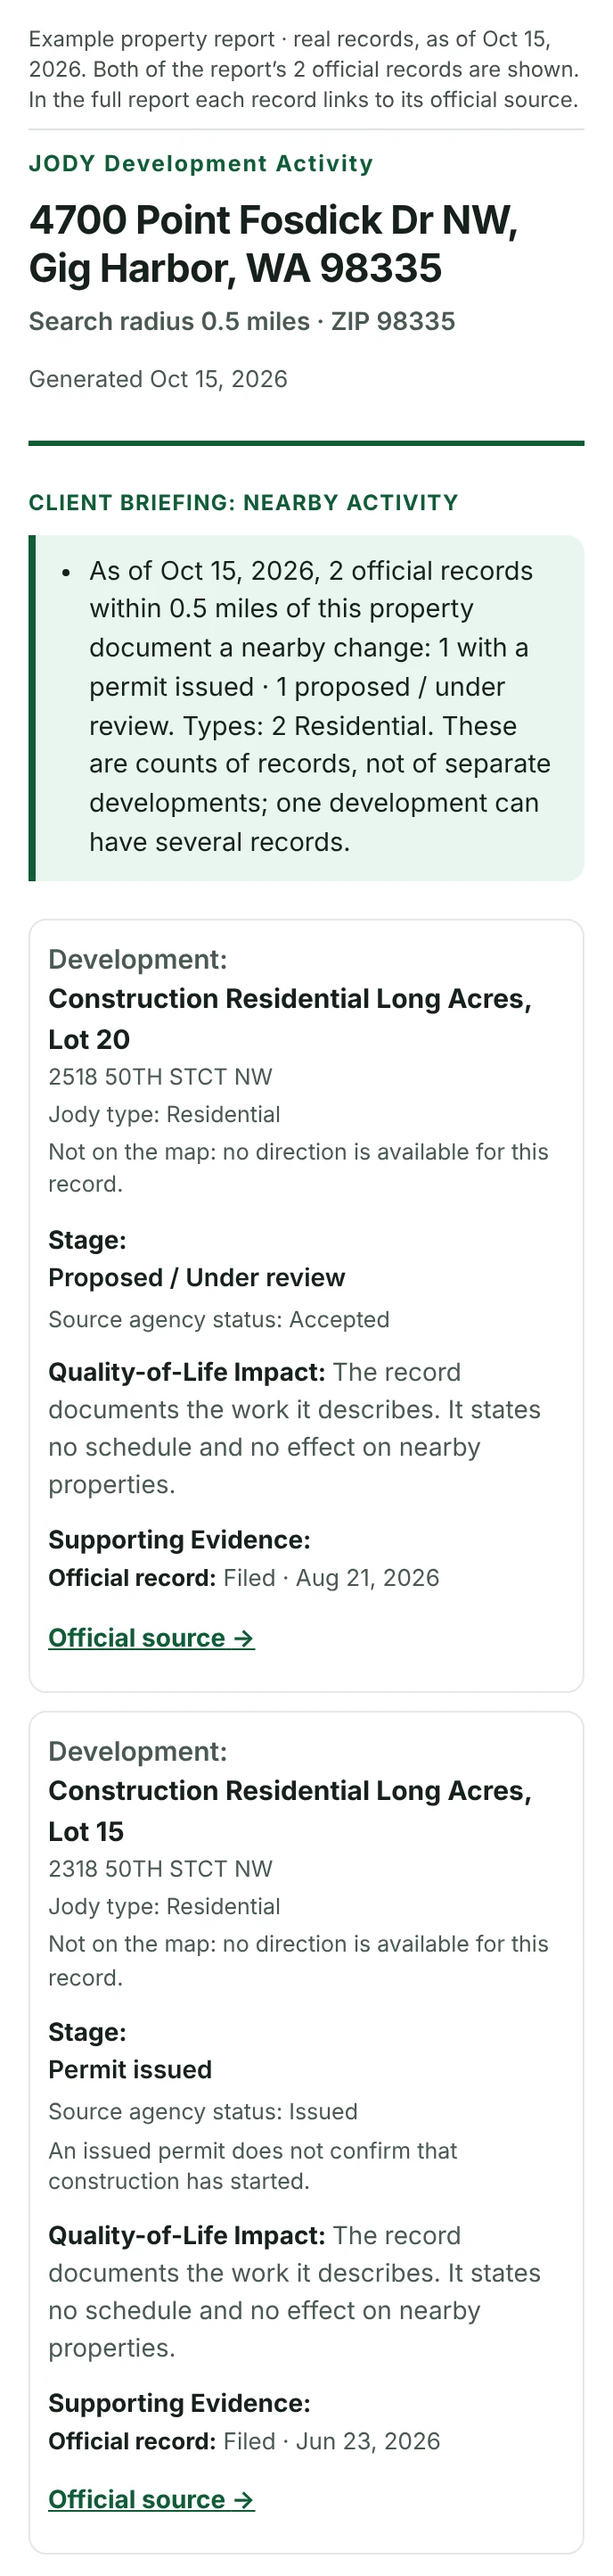
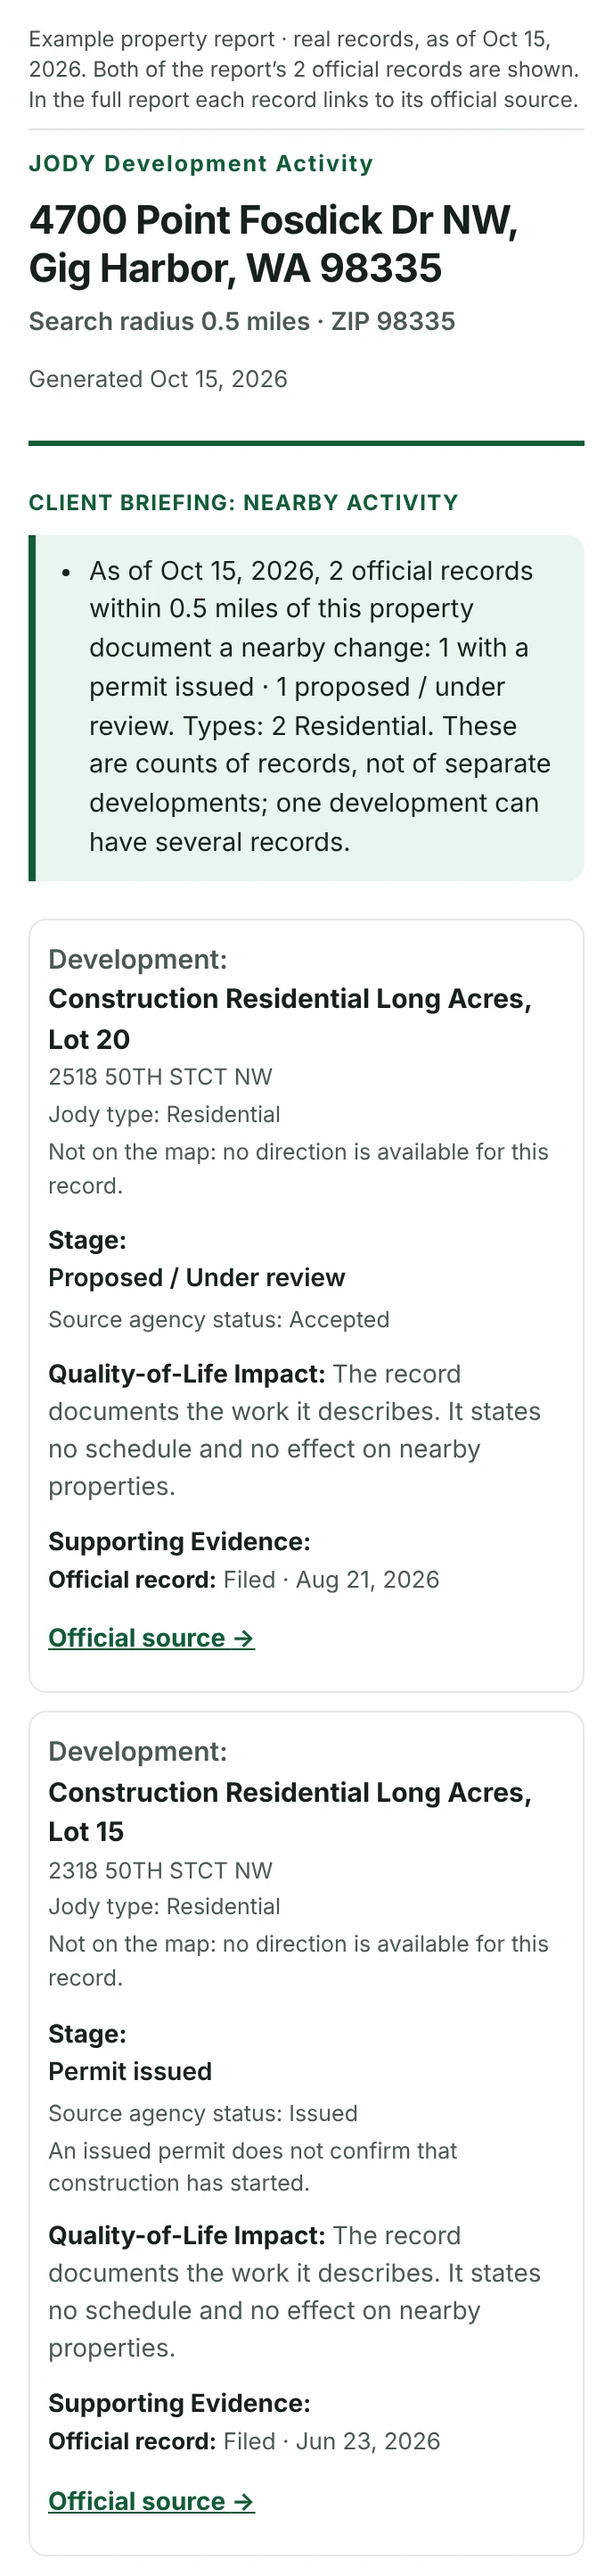
Remove "Describe the records, not the people…" sentence from reports (#3045)
* Remove the 'Describe the records, not the people…' sentence from the report caution

Claude-Session: https://claude.ai/code/session_01C2QfWas9xuci2FhC7MkDSo

* Regenerate the homepage report preview after the caution sentence change

Claude-Session: https://claude.ai/code/session_01C2QfWas9xuci2FhC7MkDSo

---------

diff --git a/lib/da-report-view.js b/lib/da-report-view.js
@@ -38,7 +38,7 @@
   // ── the words the plan and the rulings give us, quoted ─────────────────────────────────────────────────────────────────
   var BRIEFING_TITLE = 'Client Briefing: Nearby Activity';                 // the realtor value review (2026-10-04): the briefing paragraph's heading
   // Said once, under the briefing: these are official records and where they are. They are not a prediction, and not a reason to steer a client toward or away from an area.
-  var BRIEFING_CAUTION = 'This briefing reports what official records say and where they are. It is not a prediction about value, traffic or the character of the neighborhood. Describe the records, not the people who may live or work nearby, and do not use them to steer a client toward or away from an area.';
+  var BRIEFING_CAUTION = 'This briefing reports what official records say and where they are. It is not a prediction about value, traffic or the character of the neighborhood.';
   var EYEBROW = 'JODY Development Activity';                       // founder 2026-10-14 (audit F4): the new product name; replaces ruling R6's HOMESIGNAL DEVELOPMENT ACTIVITY. The engine's product identifier is unchanged until the next edge-function deploy.
   var TITLES = {                                                          // 100526 plan, ruling 3 and the visual layout contract; layout pass 2026-10-09
     records: 'Nearby Development',

diff --git a/shared-report.html b/shared-report.html
@@ -114,7 +114,7 @@ noscript p{margin:16px;font-weight:600}
 <p class="sr-only" id="followStatus" role="status" aria-live="polite"></p>
 <noscript><p>This report needs JavaScript to be shown. Please turn it on, or ask the person who sent you the link for a printed copy.</p></noscript>
 <script src="lib/project-type.js?v=852af398"></script>
-<script src="lib/da-report-view.js?v=39cc47d8"></script>
+<script src="lib/da-report-view.js?v=5d904078"></script>
 <script>
 (function(){
   // The public anon key every page carries. This page makes no account and signs no one in; it only lets the browser reach the

diff --git a/development-activity.html b/development-activity.html
@@ -154,7 +154,7 @@
 <script src="https://cdn.jsdelivr.net/npm/@supabase/supabase-js@2.117.3" integrity="sha384-dl/4LkSyQ4uEucc48NM6VDZLAjLLq9yMzZ5JLXumBq7Ld33XBof73hseOqPhO89+" crossorigin="anonymous"></script>
 <script src="lib/data.js?v=4033ae3a"></script>
 <script src="lib/project-type.js?v=852af398"></script>
-<script src="lib/da-report-view.js?v=39cc47d8"></script>
+<script src="lib/da-report-view.js?v=5d904078"></script>
 <script src="lib/topic-prefs.js?v=fe87d99b"></script>
 <script src="lib/templates.js?v=7373e258"></script>
 <script src="lib/premium-waitlist.js?v=3cb9baaf"></script>

diff --git a/development-activity-reports.html b/development-activity-reports.html
@@ -638,7 +638,7 @@ input[type=search]:focus-visible{outline:3px solid var(--accent);outline-offset:
   </div>
 </div>
 <script src="lib/project-type.js?v=852af398"></script>
-<script src="lib/da-report-view.js?v=39cc47d8"></script>
+<script src="lib/da-report-view.js?v=5d904078"></script>
 <script src="lib/da-report-compare.js?v=a97e336e"></script>
 <script src="lib/share-modal.js?v=303425d1"></script>
 <script src="https://cdn.jsdelivr.net/npm/@supabase/supabase-js@2.117.3" integrity="sha384-dl/4LkSyQ4uEucc48NM6VDZLAjLLq9yMzZ5JLXumBq7Ld33XBof73hseOqPhO89+" crossorigin="anonymous"></script>

diff --git a/development-activity-review.html b/development-activity-review.html
@@ -147,7 +147,7 @@ fieldset label{display:flex;gap:6px;align-items:center;font-weight:500;color:var
 </div>
 
 <script src="lib/project-type.js?v=852af398"></script>
-<script src="lib/da-report-view.js?v=39cc47d8"></script>
+<script src="lib/da-report-view.js?v=5d904078"></script>
 <script src="https://cdn.jsdelivr.net/npm/@supabase/supabase-js@2.117.3" integrity="sha384-dl/4LkSyQ4uEucc48NM6VDZLAjLLq9yMzZ5JLXumBq7Ld33XBof73hseOqPhO89+" crossorigin="anonymous"></script>
 <script>
 // ============================================================================
